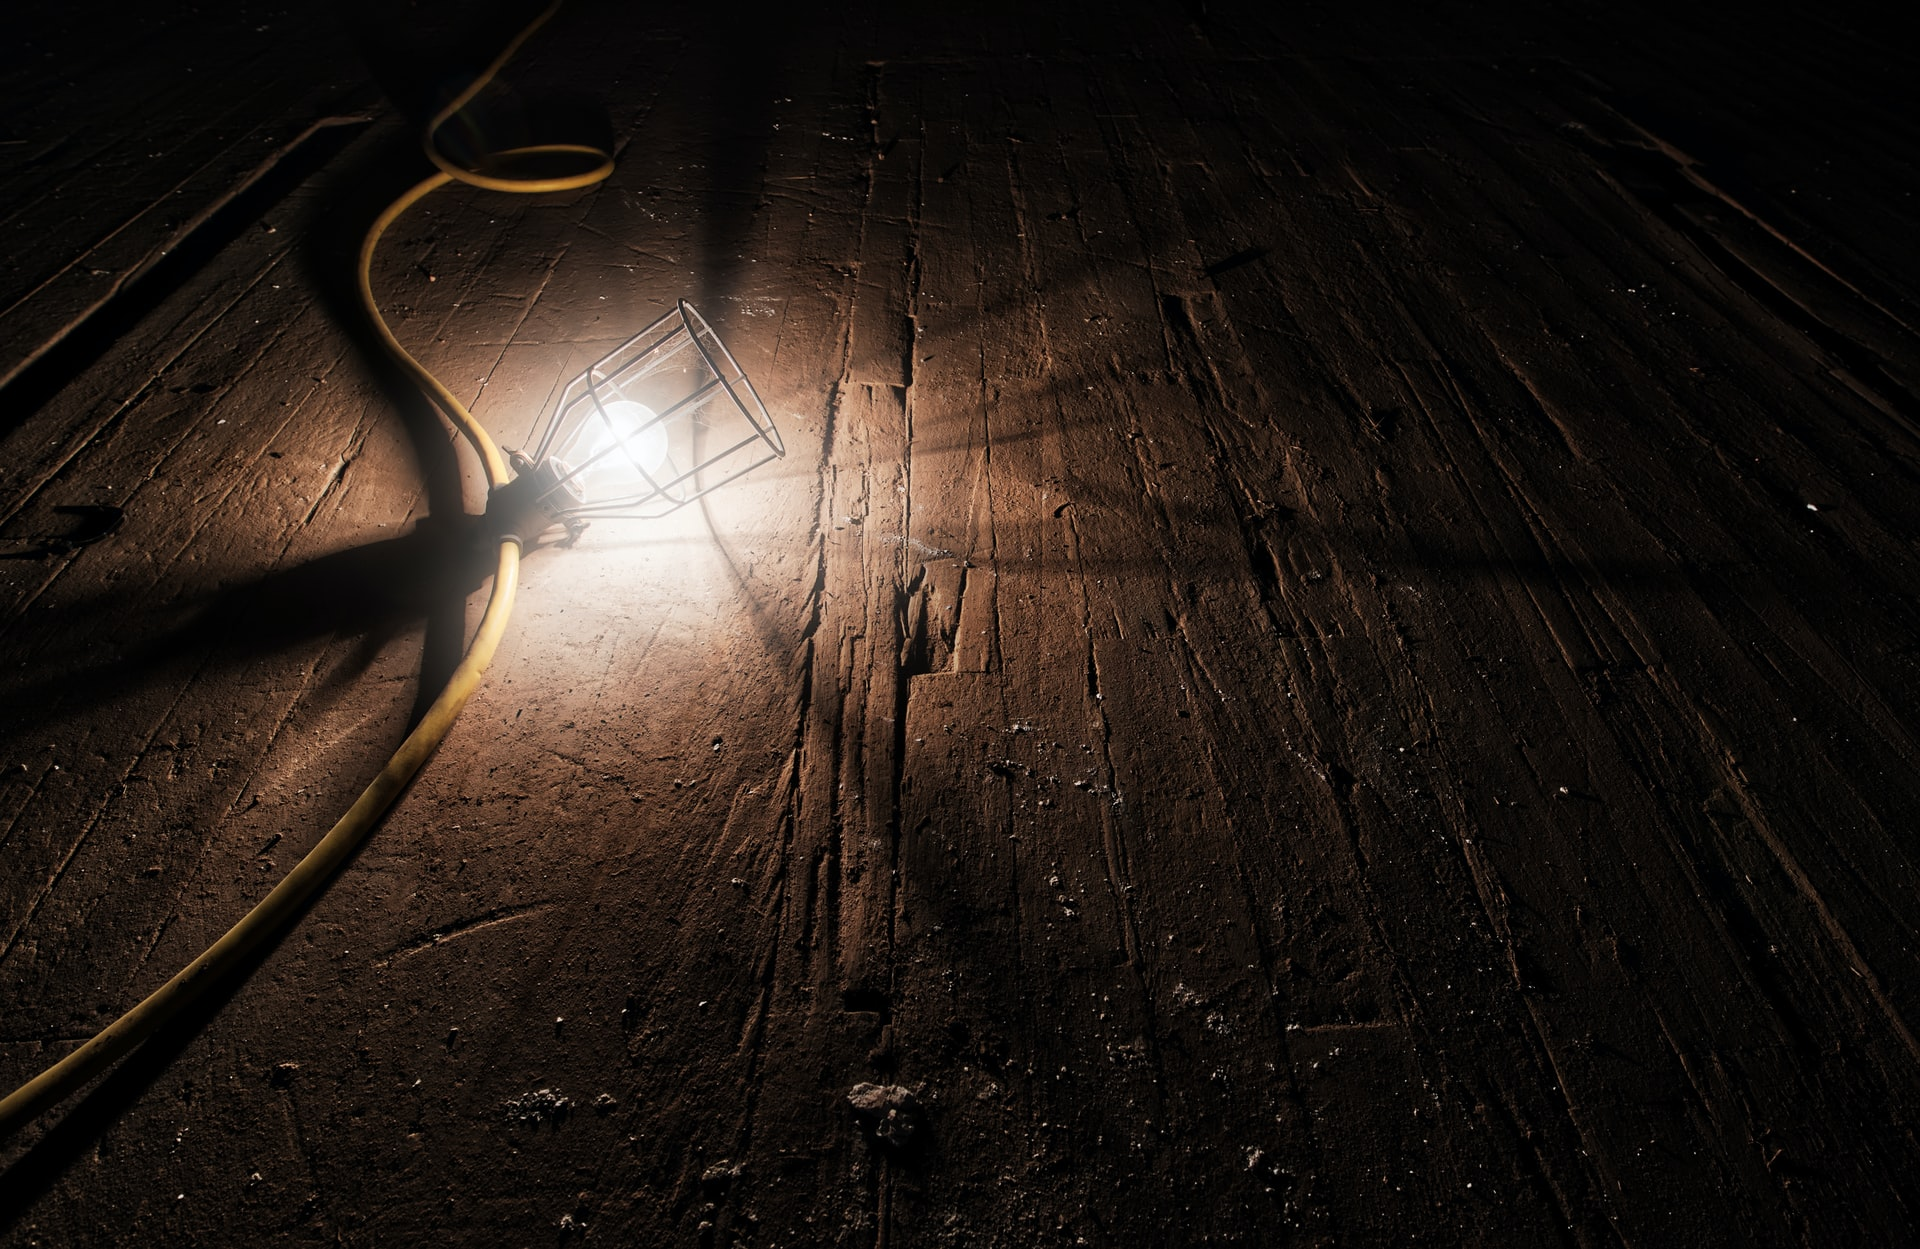
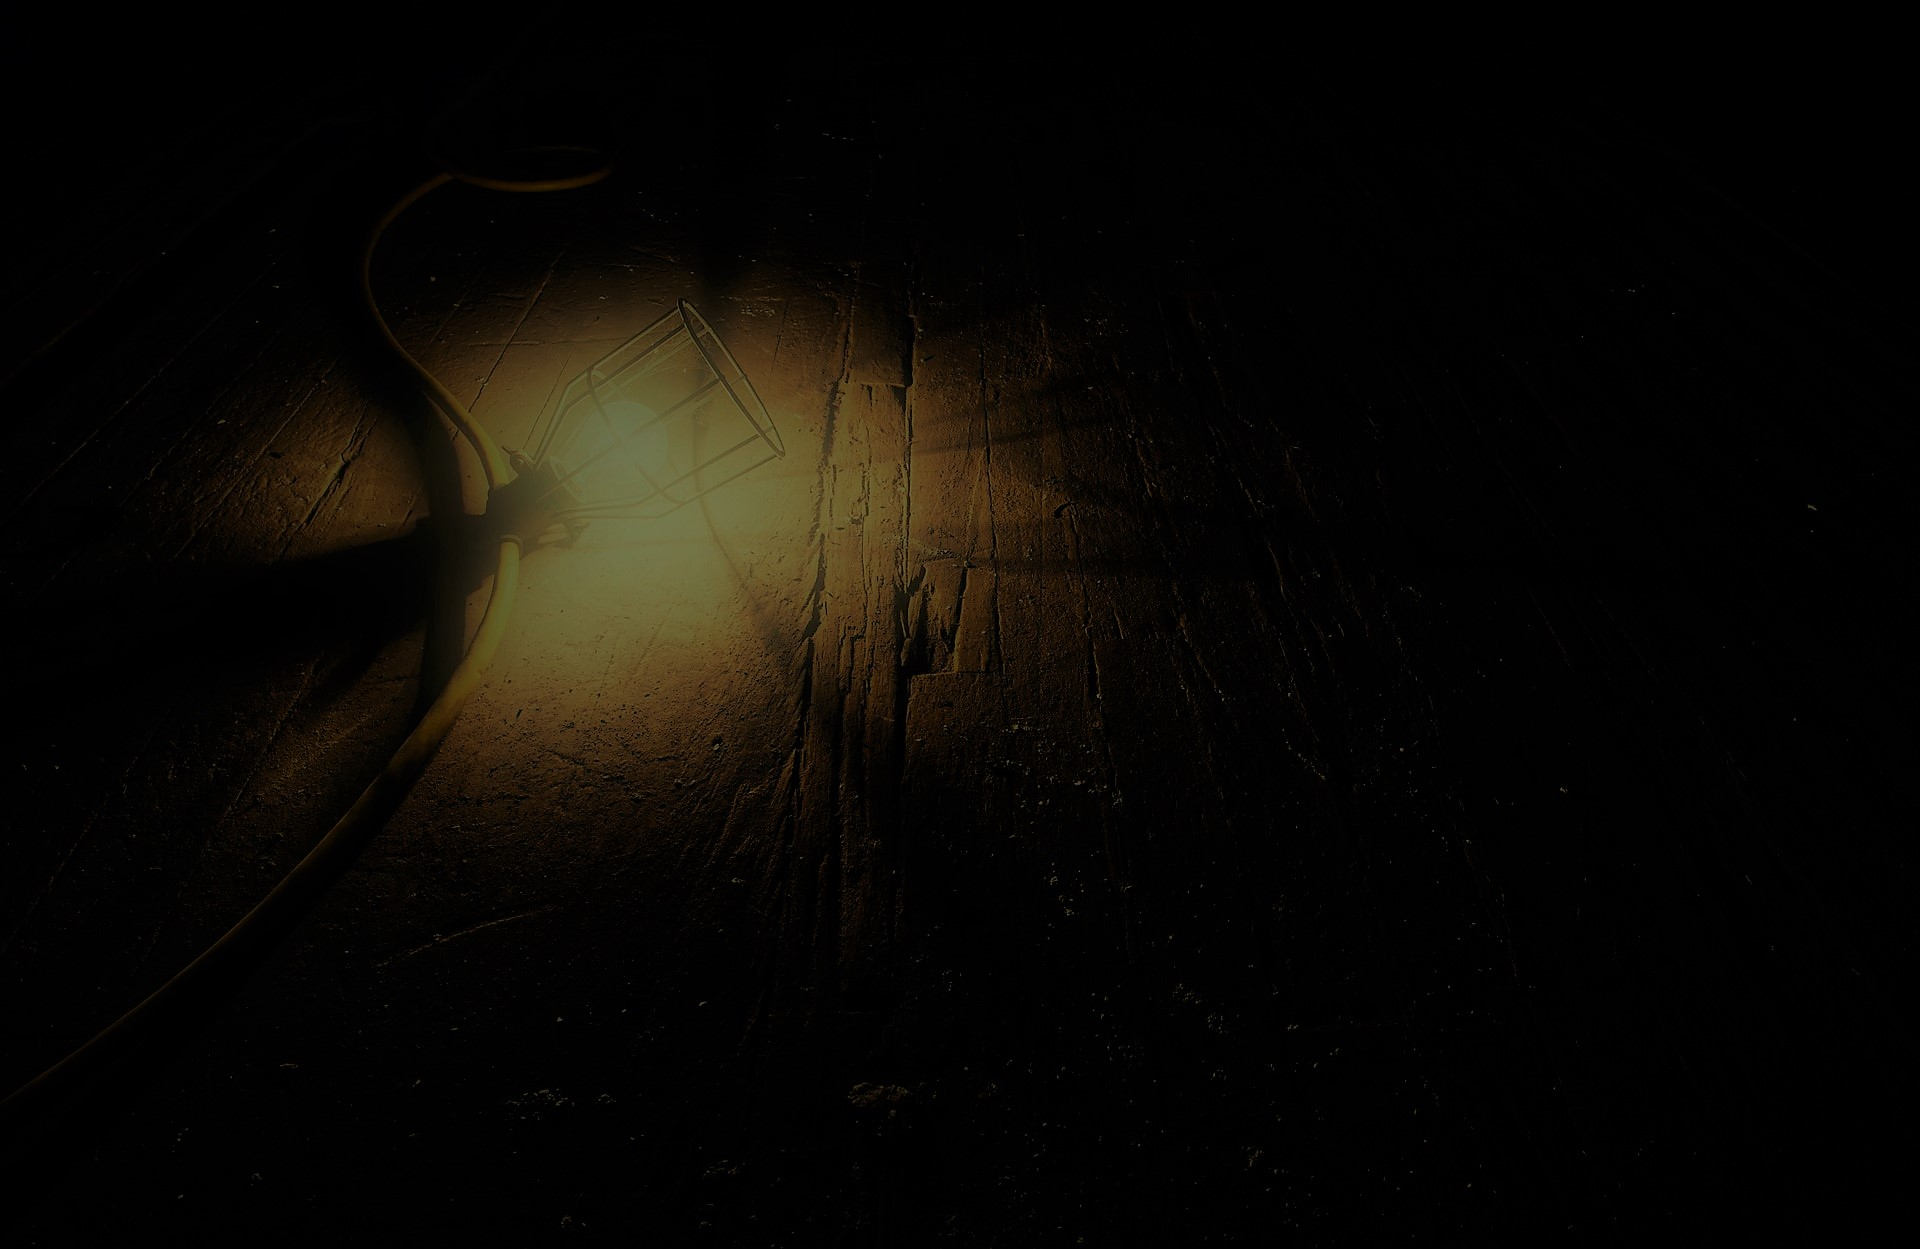
Edits made 18/03/21

diff --git a/css/style.css b/css/style.css
@@ -210,7 +210,7 @@ a:hover { color: #FF0; }
   padding-left: 15px;
   padding-right: 15px;
   padding-top: 15vh;
-  /*background-image: url(../img/bg16.jpg);*/ /* Second Image */
+  background-image: url(../img/bg05.jpg); /* Second Image */
   background-color: #282b2f;
   background-attachment: fixed;
   min-height: 100vh;
@@ -326,7 +326,7 @@ h4, .h4 {
   padding-left: 15px;
   padding-right: 15px;
   padding-top: 8vh;
-  /*background-image: url(../img/bg11.jpg);*/ /* Fourth Image */
+  background-image: url(../img/bg11.jpg); /* Fourth Image */
   background-color: #282b2f;
   background-attachment: fixed;
   min-height: 100vh;
@@ -396,7 +396,8 @@ section {
   padding-left: 15px;
   padding-right: 15px;
   padding-top: 16vh;
-  background-image: url(../img/bg10.jpg); /* Fifth image*/
+  background-color: #282b2f;
+  /*background-image: url(../img/bg04.jpg);*/ /* Fifth image*/
 }
 
 .contact-form {

diff --git a/index.html b/index.html
@@ -71,7 +71,7 @@
                             <li>-  Bulletpoint 4</li>
                         </ul>
                         <div class="primary-button">
-                            <a href="#portfolio">Learn More About Us</a>
+                            <!-- <a href="#portfolio">Learn More About Us</a> -->
                         </div>
                     </div>
                 </div>
@@ -290,7 +290,7 @@
                     </ul>
                     <p>Copyright &copy; <em>2021 Lugton Electrical Services</em> 
             
-            		| Design: <a rel="nofollow noopener" href="https://www.mwwd.work"><em>Mark Williams Web Development</em></a></p>
+            		| Design: <a href="https://www.github.com/MarkyXXIII" target="blank"><em>Mark Williams Web Development</em></a></p>
                 </div>
             </div>
         </div>
